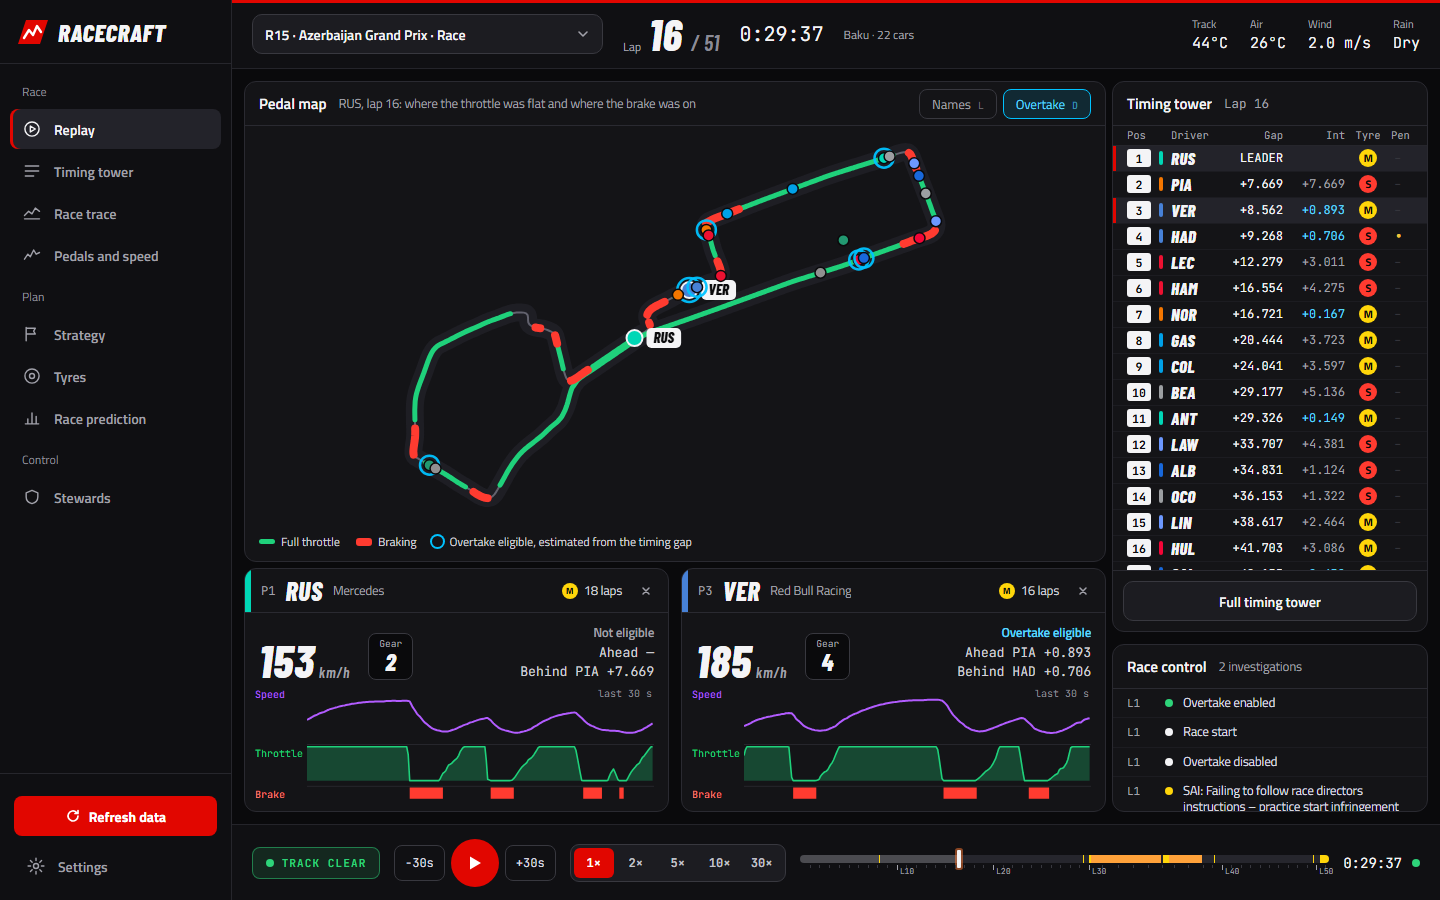
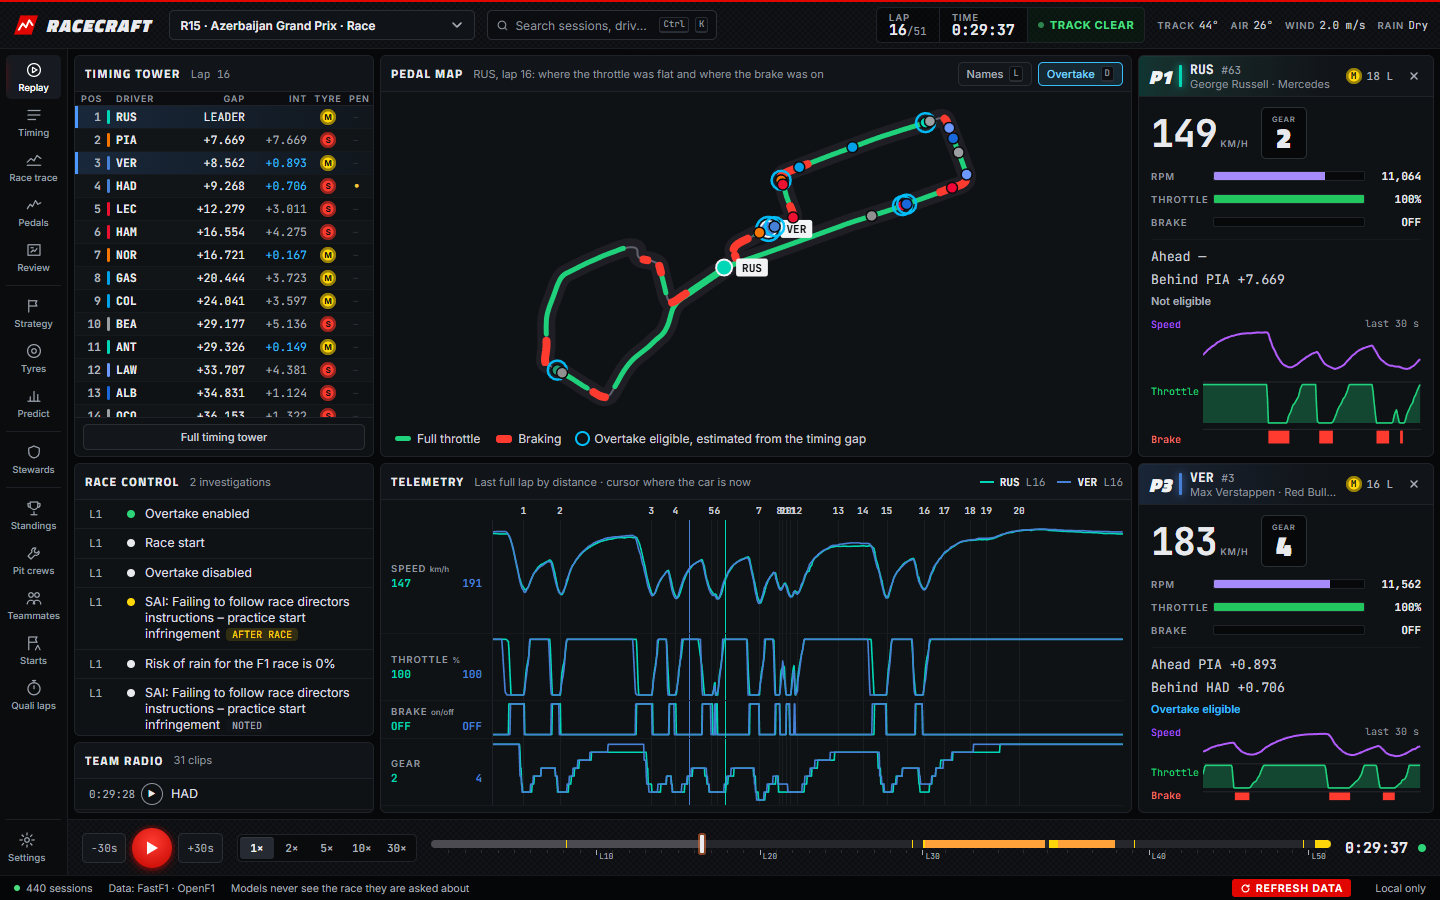
README: the redesigned screens, the session bar, Ctrl K search and the pit-wall replay, with every screenshot retaken

diff --git a/README.md b/README.md
@@ -70,20 +70,22 @@ before it.
 
 ## The screens
 
-A navigation rail runs down the left and a playback bar along the bottom. Every
-screen except the replay and settings can pop out into a window of its own (the ↗
-button) that follows the main window's clock, so the timing tower can sit on a
-second monitor.
+A session bar runs across the top: the session, the lap, the race time, the track
+status, the weather and a search (Ctrl K) that jumps to any screen, driver or
+session. A slim icon rail runs down the left, and the playback bar and a status
+bar along the bottom. Every screen except the replay and settings can pop out into
+a window of its own (the ↗ button) that follows the main window's clock, so the
+timing tower can sit on a second monitor.
 
 ### Race
 
 | | |
 |---|---|
-| **Replay**: the circuit coloured by a followed car's last lap (green flat out, red braking), cards for up to two followed drivers, the timing tower and race control. | ![Replay](docs/screenshots/replay.png) |
+| **Replay**: a pit wall. The timing tower, the circuit coloured by a followed car's last lap (green flat out, red braking), and a dashboard for each of two followed drivers (speed, gear, revs, throttle, brake, the gaps either side); race control and team radio; and the followed drivers' last laps, channel by channel against lap distance. | ![Replay](docs/screenshots/replay.png) |
 | **Timing tower**: every car's gap, interval, last and best lap, sectors in timing colours, tyre and age, stops and penalties. | ![Timing tower](docs/screenshots/timing-tower.png) |
 | **Race trace**: the gap to the leader lap by lap, drawn only up to the lap on the clock. Safety-car laps are shaded. | ![Race trace](docs/screenshots/race-trace.png) |
 | **Pedals and speed**: one driver's lap against another's by distance: the time between them, speed, throttle, brake, gear and every brake zone. | ![Pedals and speed](docs/screenshots/pedals-and-speed.png) |
-| **Race review**: per driver, overtakes made and lost on track, and each pit stop's lap and the places it cost, marked when made under a safety car, VSC or red flag. | ![Race review](docs/screenshots/race-review.png) |
+| **Race review**: per driver, overtakes made and lost on track, and each pit stop's lap and the places it cost, marked when made under a safety car, VSC or red flag. Click a driver to see their stops along the race, each in a sentence. | ![Race review](docs/screenshots/race-review.png) |
 
 ### Plan
 
@@ -285,6 +287,7 @@ they need is missing.
 
 - **Pick a session** at the top, **play** with Space, and **scrub** on the timeline,
   which is coloured by flags and safety cars.
+- **Search** with Ctrl K: type part of a screen, a driver or a session, then Enter.
 - **Follow a driver** by clicking them in the timing tower (up to two).
 - **Pop out** any screen with ↗; it stays in step with the main window.
 - On season screens, choose **Going into this session** (no spoilers) or **After it**.
@@ -297,6 +300,7 @@ they need is missing.
 | Home | Back to the start |
 | L | Driver names on the map |
 | D | DRS zones on the map (2026: overtake rings) |
+| Ctrl K | Search screens, drivers and sessions |
 
 ---
 
